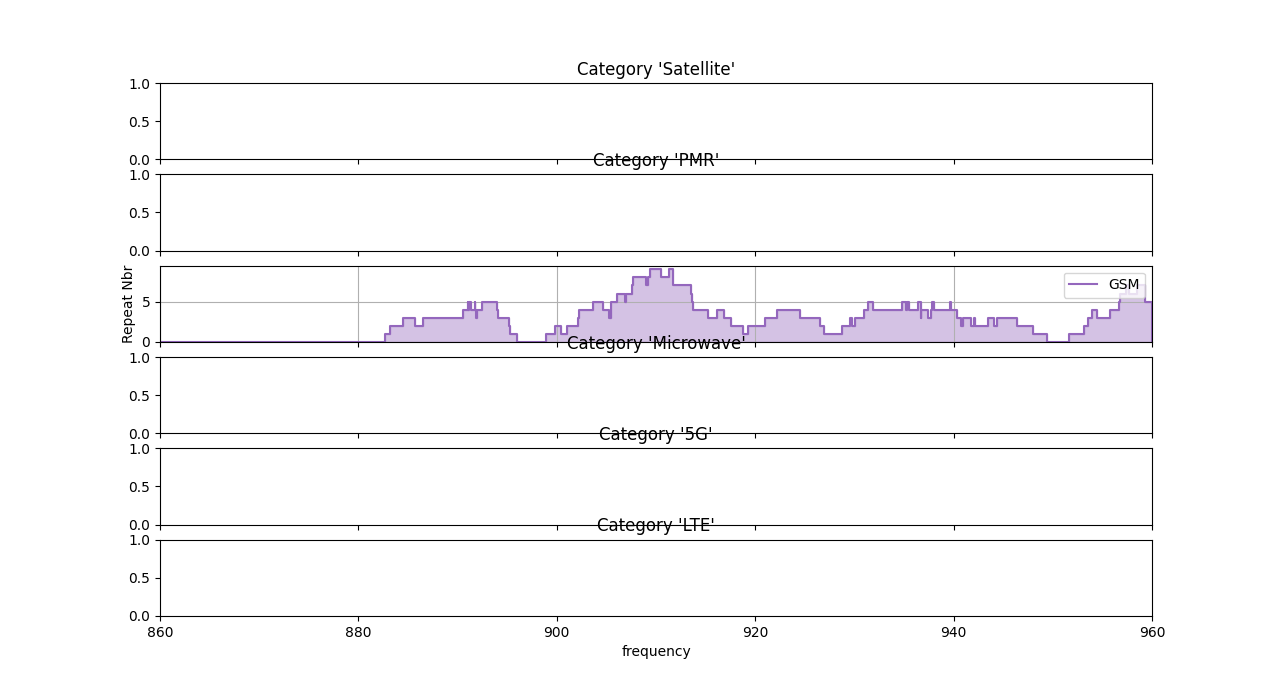
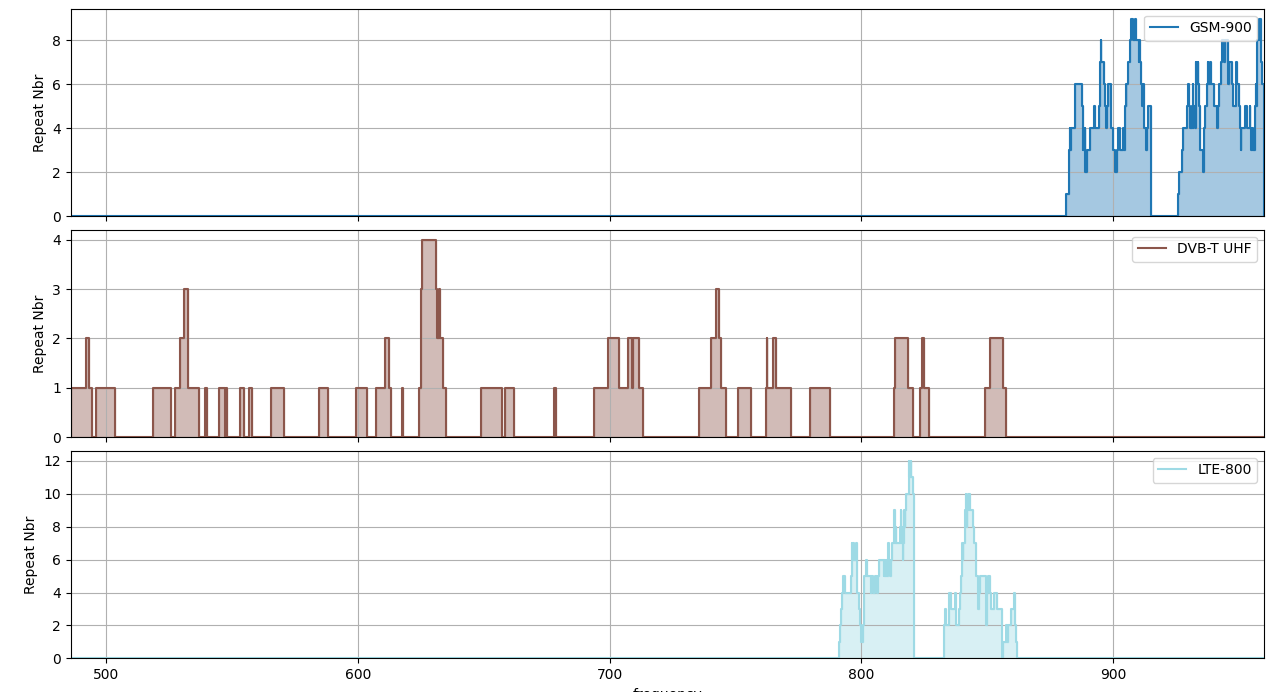
Housekeeping was made

diff --git a/tests/data_gen.py b/tests/data_gen.py
@@ -5,14 +5,13 @@ import random  # for lists of tuples
 np.random.seed(42)  # reproducibility
 
 # Configuration
-n_rows = 300
+n_rows = 200
 categories = [
-    ('GSM', 880, 960),           # GSM 900 band
-    ('LTE', 1710, 1880),         # LTE 1800 band
-    ('5G', 3400, 3800),          # 5G NR mid-band
-    ('Microwave', 5925, 6425),   # 6 GHz microwave band
-    ('PMR', 450, 470),           # Private mobile radio
-    ('Satellite', 3700, 4200),   # C-band satellite downlink
+    ('DVB-T UHF', 470, 862),  # DVB-T UHF band
+    ('GSM-900', 880, 915),  # GSM900 UL band
+    ('GSM-900', 925, 960),  # GSM900 DL band
+    ('LTE-800', 791, 821),  # LTE800 DL band
+    ('LTE-800', 832, 862),  # LTE800 UL band
 ]
 regions = ['North', 'South', 'East', 'West']
 system_types = ['Fixed', 'Mobile', 'Satellite']

diff --git a/src/spectroplot/spectroplot.py b/src/spectroplot/spectroplot.py
@@ -1,7 +1,7 @@
 import pandas as pd
 import matplotlib.pyplot as plt
 
-class SpectrumPlotter:
+class SpectroPlot:
     def __init__(self,
                  excel_file,
                  sheet_name='Sheet1',
@@ -152,7 +152,8 @@ class SpectrumPlotter:
 
             # Plot
             color = self.colormap(idx / max(n_categories - 1, 1))  # normalize index to [0,1]
-            ax.step(freqs, overlaps, where='post', color=color, label={category})
+            # ax.step(freqs, overlaps, where='post', color=color, label={category})
+            ax.step(freqs, overlaps, where='post', color=color, label=category)
             ax.fill_between(freqs, overlaps, step='post', alpha=0.4, color=color)
 
             ax.set_xlim(min_freq, max_freq)

diff --git a/tests/test_spectroplot.py b/tests/test_spectroplot.py
@@ -1,5 +1,5 @@
-from spectroplot import SpectrumPlotter
+from spectroplot import SpectroPlot
 
-plotter = SpectrumPlotter(excel_file='data.xlsx')
+plotter = SpectroPlot(excel_file='data.xlsx')
 plotter.load_data()
-plotter.plot(min_freq=860, max_freq=960)
+plotter.plot()

diff --git a/src/spectroplot/__init__.py b/src/spectroplot/__init__.py
@@ -1,3 +1,3 @@
-from .spectroplot import SpectrumPlotter
+from .spectroplot import SpectroPlot
 
-__all__ = ["SpectrumPlotter"]
+__all__ = ["SpectroPlot"]

diff --git a/README.md b/README.md
@@ -1,40 +1,138 @@
-# Purpose
+# SpectroPlot
 
-`spectrum_plot.py` allows to create 
-1. Plots of overlapped sub-bands of the same category, and 
-2. Combine adjacent or overlapped sub-bands into contiguous sub-bands.
+**SpectroPlot** is a Python class for loading frequency assignment data 
+from Excel files, cleaning it, and plotting frequency overlaps by category. 
+It’s designed for radio spectrum engineers, regulators, or analysts who want 
+to visualize how frequency assignments stack up within different categories 
+(e.g., services, technologies, or operators).
 
-## Input data structure
-It reads data from pre-formated Excel file named `categories and sub-bands.xlsx`.
-It is also expected that there is a sheet named `categories and sub-bands` 
-in the Excel file. The Excel file must be in the same folder as the 
-`spectrum_plot.py` file. Example of such a file is provided in `docs` folder.
+![Example Plot](./img/Figure_1.png)
 
-It is expected that the data is organized in columns:
+---
 
-| Column name      | Description                       |
-|------------------|-----------------------------------|
-| `category`       | filter applies for grouping       |
-| `start_freq_mhz` | start frequency, MHz              |
-| `end_freq_mhz`   | end frequency, MHz                |
-| `excluded`       | `yes`= not counted, `no`= counted |
+## Features
 
+✅ Load frequency ranges and categories directly from Excel  
+✅ Exclude specified entries (e.g., rows marked with `Exclude='yes'`)  
+✅ Automatically clean, validate, and prepare data  
+✅ Plot frequency overlap "staircase" charts per category  
+✅ Flexible column naming  
+✅ Configurable frequency bounds  
+✅ Handles near-identical frequencies with `epsilon` tolerance
 
-## Data export
-Contiguous ranges made of overlapped and adjacent sub-bands of the same
-category is stored in a separate Excel file 
-`frequency_overlap_data_DATE_TIME.xlsx`. This data is presented
-for all categories found in the `category` column. 
-Example of such a file is provided in `docs` folder.
+---
 
-## Frequency overlap diagram
-The overlap diagram is created and stored as 
-`CATEGORY_overlap_chart.png` file for each category. 
-All diagram files are stored in the same folder
-as the `spectrum_plot.py` file.
+## Requirements
 
-![Example diagram](docs/FSS_overlap_chart.png)
+- Python 3.7+
+- `pandas`
+- `matplotlib`
+- `openpyxl` (required by pandas to read `.xlsx`)
 
+## Installing
+```bash
+# From PyPl
+py -m pip install spectroplot  # on Windows
+python3 -m pip install spectroplot  # on Unix/macOS
 
+# From GitHub
+py -m pip install spectroplot @ git+https://github.com/murzabaevb/spectroplot.git  # on Windows 
+python3 -m pip install spectroplot @ git+https://github.com/murzabaevb/spectroplot.git  # on Unix/macOS
+```
 
- 
+---
+
+## Expected Excel Format
+
+Your Excel sheet must contain **four columns**, for example:
+
+| Category | Start  | Stop   | Exclude |
+|----------|--------|--------|---------|
+| LTE      | 700.0  | 720.0  |         |
+| GSM      | 900.0  | 915.0  | yes     |
+| 5G       | 3500.0 | 3700.0 |         |
+
+- **Category**: name of the assignment category (e.g., LTE, GSM)  
+- **Start**: start frequency (numeric)  
+- **Stop**: end frequency (numeric)  
+- **Exclude**: set to "yes" (case-insensitive) to exclude the row from plotting
+
+*Note:* These four columns could be named differently in Excel file. If so, 
+it is necessary to pass these headers when instantiating the object of the 
+class as shown in the example below. Apart from these four columns, the Excel 
+file may contain other columns that would be ignored during reading.
+
+---
+
+## Usage Example
+
+```python
+from spectroplot import SpectroPlot
+
+# Initialize with your Excel file, default sheet name and column headers
+sp = SpectroPlot(excel_file='data.xlsx')
+
+# Load and clean data
+sp.load_data()
+
+# Plot overlaps
+sp.plot()
+```
+
+Default values: 
+- `sheet_name='Sheet1`,
+- `columns=['Category', 'Start', 'Stop', 'Exclude']`
+
+```python
+from spectroplot import SpectroPlot
+# Initialize with your Excel file and custom sheet/columns
+sp = SpectroPlot(
+    excel_file='assignments.xlsx',
+    sheet_name='uhf',
+    columns=['system', 'f_low', 'f_hi', 'excl'],
+)
+
+# Load and clean data
+sp.load_data()
+
+# Plot overlaps of entire data read
+sp.plot()
+
+# Or specify frequency bounds as per your requirement
+sp.plot(min_freq=600, max_freq=4000)
+```
+
+---
+
+## Output
+
+- Generates a **matplotlib plot** with one subplot per category
+- Each plot shows the number of overlapping frequency assignments as a staircase
+- Colors are automatically assigned from the `tab20` colormap
+
+---
+
+## Parameters
+
+`SpectroPlot` constructor:
+- **excel_file**: Path to your Excel file  
+- **sheet_name**: Name of the worksheet to read (default: `'Sheet1'`)  
+- **columns**: List of four column names in order (default: `['Category', 'Start', 'Stop', 'Exclude']`)  
+- **epsilon**: Tolerance for merging events with nearly identical frequencies (default: `1e-6`)  
+
+`plot()` method:
+- **min_freq**: Lower frequency bound of plotting
+- **max_freq**: Upper frequency bound of plotting
+
+---
+
+## License
+
+MIT License. Feel free to use, modify, and contribute!
+
+---
+
+## Project Links
+
+- [GitHub Repository](https://github.com/murzabaevb/spectroplot.git)
+- [GitHub Issues](https://github.com/murzabaevb/spectroplot/issues)
